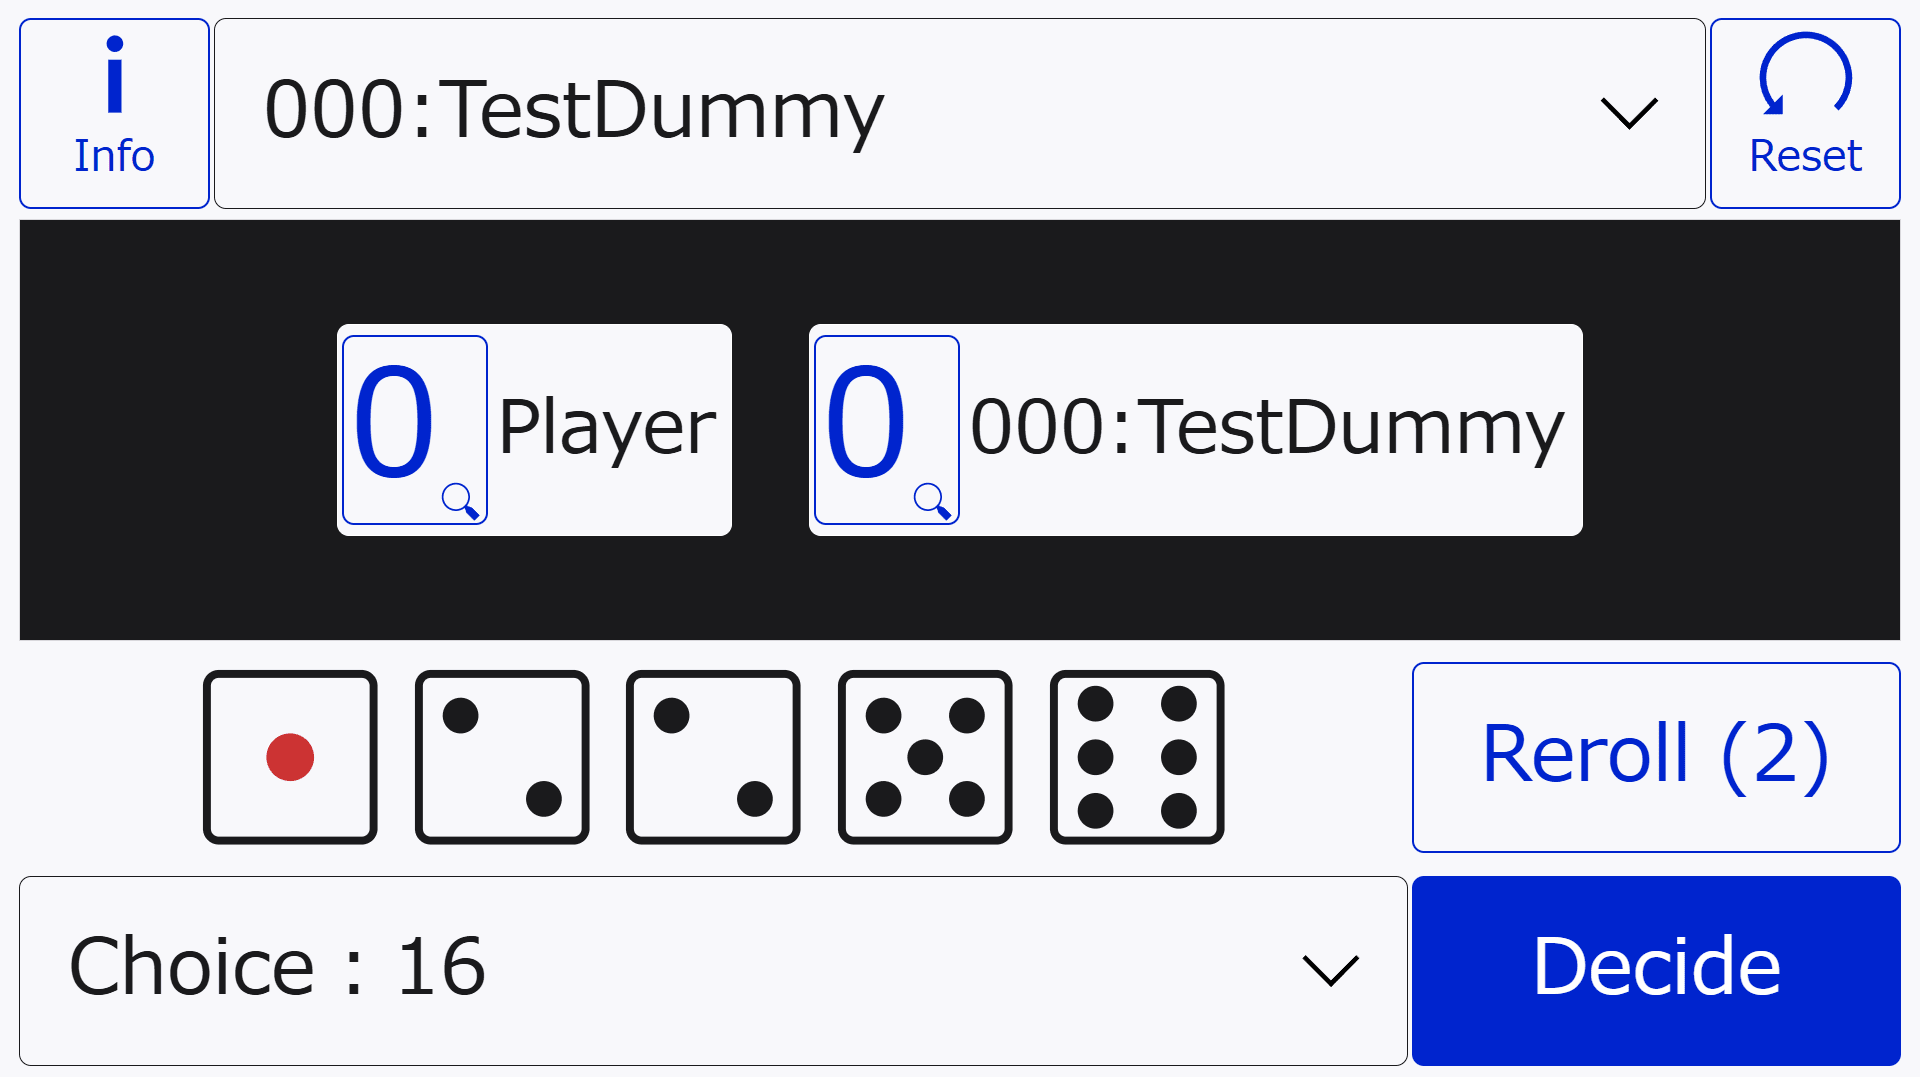
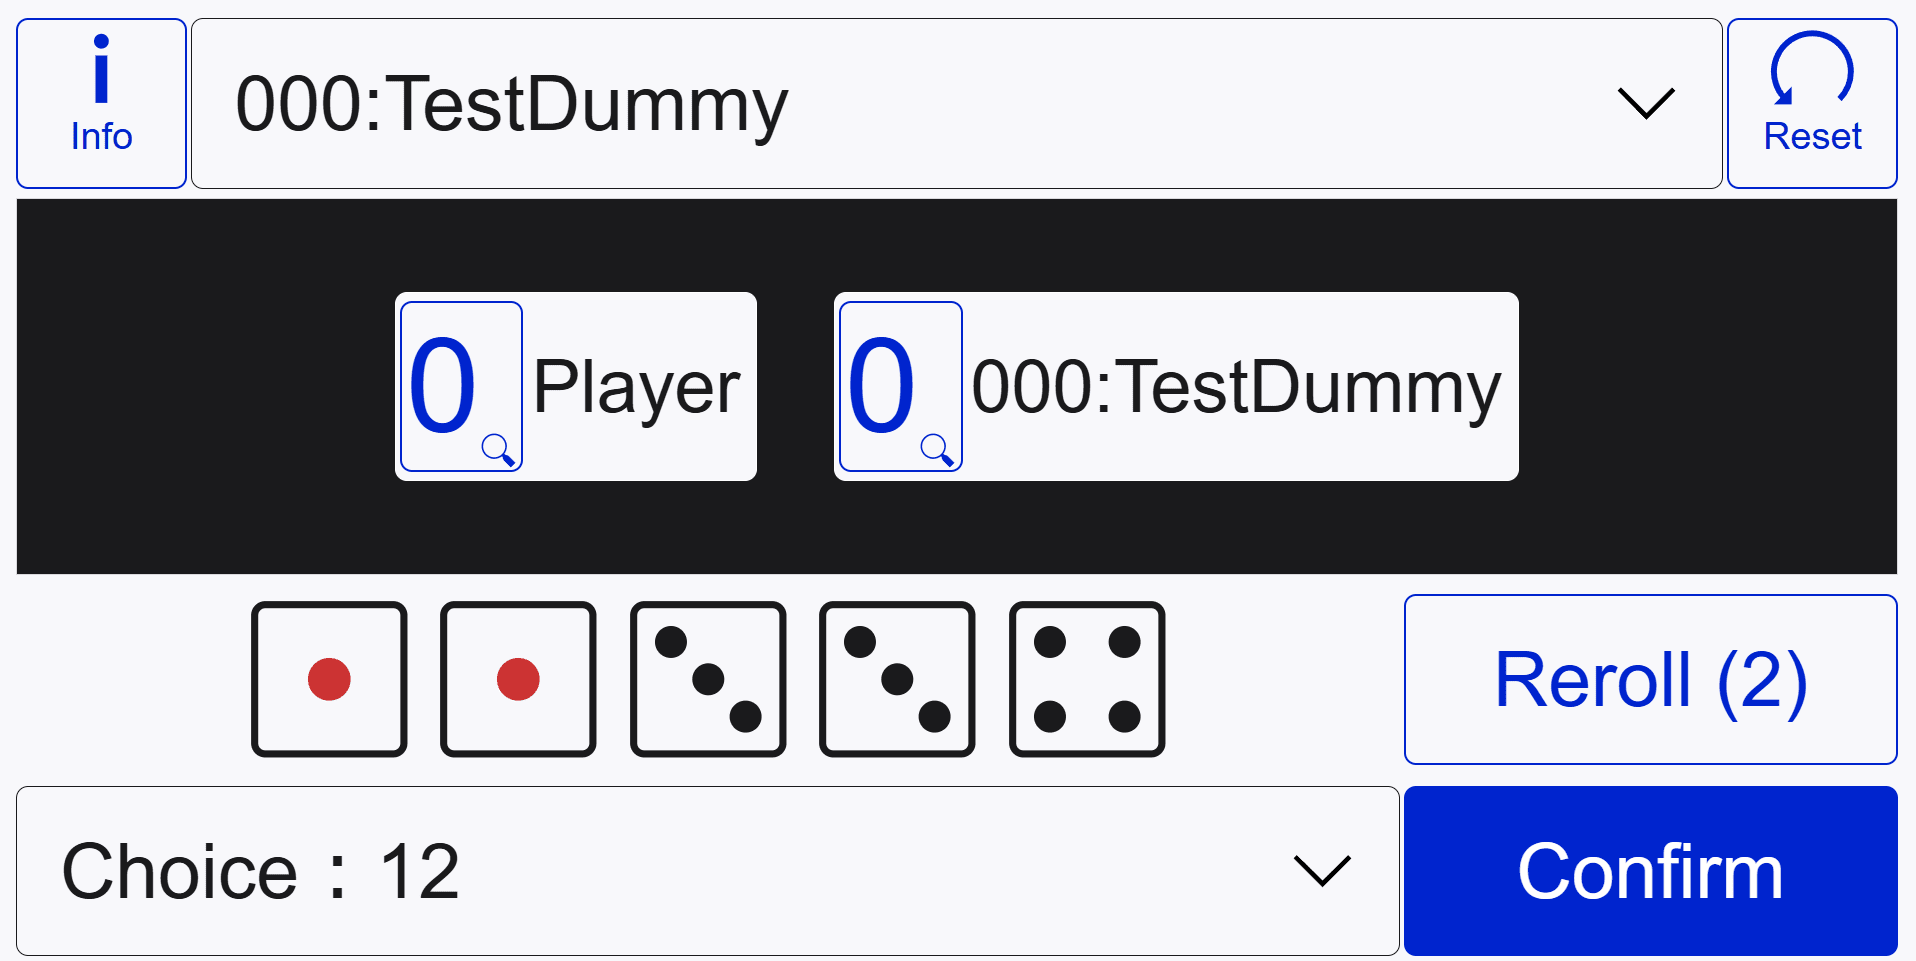
complete how-to-play
+ add pictures
+ apply images

diff --git a/docs/javascript/dice/09_finalize/notes/how-to-play-en.md b/docs/javascript/dice/09_finalize/notes/how-to-play-en.md
@@ -19,7 +19,6 @@ Landscape mode
 
 Portrait mode
 ![Main screen in portrait mode](./images/operation-screen-02.png)
-<!-- TODO:Change picture `confirm` button, and modify `howto-play-ja.md` -->
 
 | No. | Name                | Description                                    |
 |:---:|:--------------------|:-----------------------------------------------|
@@ -56,8 +55,7 @@ In this game, there are **13 conbinations** using five dices, and **1 bonus** th
 
 Players and opponents aim for one of these combinations each turn.
 
-![Dice value '1 1 1 2 2' applied to 'Full House' from the chart of combinations.](./images/play-instruction-01-ja.png)
-<!-- TODO: change to english -->
+![Dice value '1 1 1 2 2' applied to 'Full House' from the chart of combinations.](./images/play-instruction-01-en.png)
 
 Once a combination is confirmed, it cannot be changed, even if a higher score is achieved in later turns.
 
@@ -74,7 +72,7 @@ In addition to the combination that depend on 5 dices, the chart of combinations
 You can roll the dice up to 3 times in a turn.
 The first roll is mandatory, and player can reroll up to 2 more times.
 
-<!-- @pic: Diagram of confirming a combination with 3 rerolls -->
+![Using two rerolling, player achieved the combination 'Long Straight'](./images/the-flow-a-turn-01.png)
 
 Rerolling is optional, so you are also possible to confirm a combination without rerolling.
 
@@ -88,7 +86,7 @@ Before rerolling dices, you can **lock** specific dice.
 
 Locked dice will not be rerolled and will remain fixed.
 
-<!-- Diagram of confirming a combination with locked dice -->
+![Using two rerolling and dice locked, player achieved the combination 'FUNE'](./images/the-flow-a-turn-02.png)
 
 *Note: Locked dice can be unlocked again.*
 

diff --git a/docs/javascript/dice/09_finalize/notes/how-to-play-ja.md b/docs/javascript/dice/09_finalize/notes/how-to-play-ja.md
@@ -74,7 +74,7 @@ This manual is in Japanese, the English version is [here](./how-to-play-en.md).
 1ターンにダイスは最大3回振ることができます。
 最初の1回は強制で、プレイヤーはそこから2回まで振りなおすことができます。
 
-<!-- @pic: 3回の振りなおしでフネ確定させる図-->
+![ダイスを2回振りなおし、ロングストレートを成立させている](./images/the-flow-a-turn-01.png)
 
 振りなおしは任意なので、一度も振りなおしせず確定させることも可能です。
 
@@ -88,7 +88,7 @@ This manual is in Japanese, the English version is [here](./how-to-play-en.md).
 
 ロック状態のダイスは、振りなおしの対象にならず、固定されたままとなります。
 
-<!-- ダイス ロック状態 にしながら役を成立させる -->
+![ダイスロックを使いながら、フネ成立を目指している](./images/the-flow-a-turn-02.png)
 
 ※一度ロックしたダイスは、再度ロックを外すことも可能です。
 
